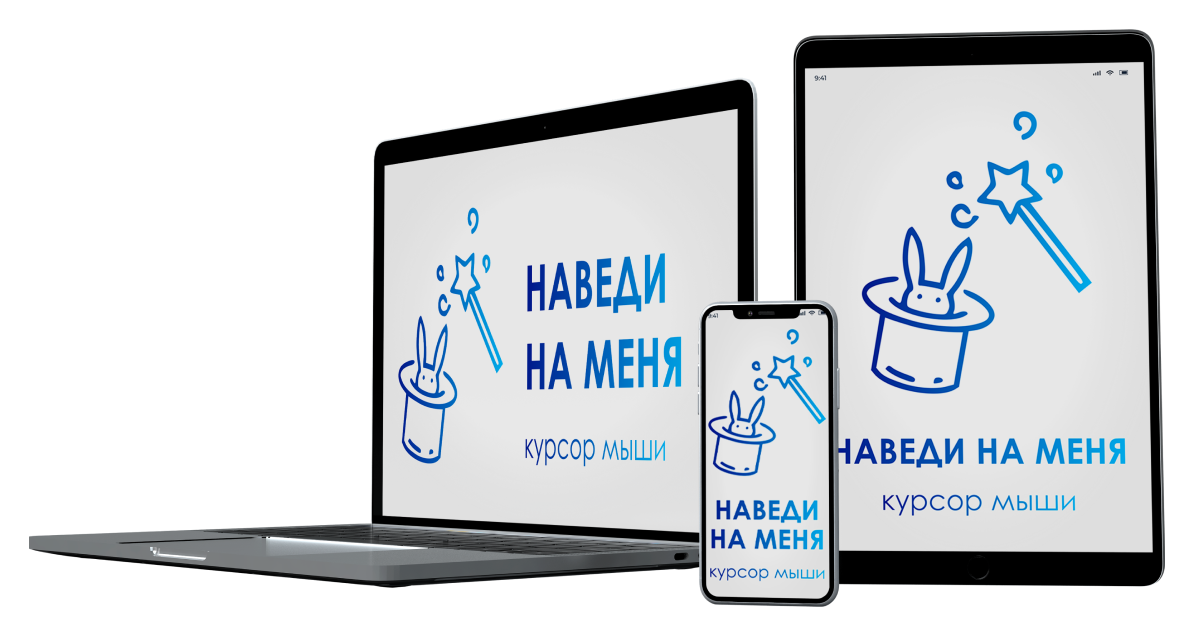
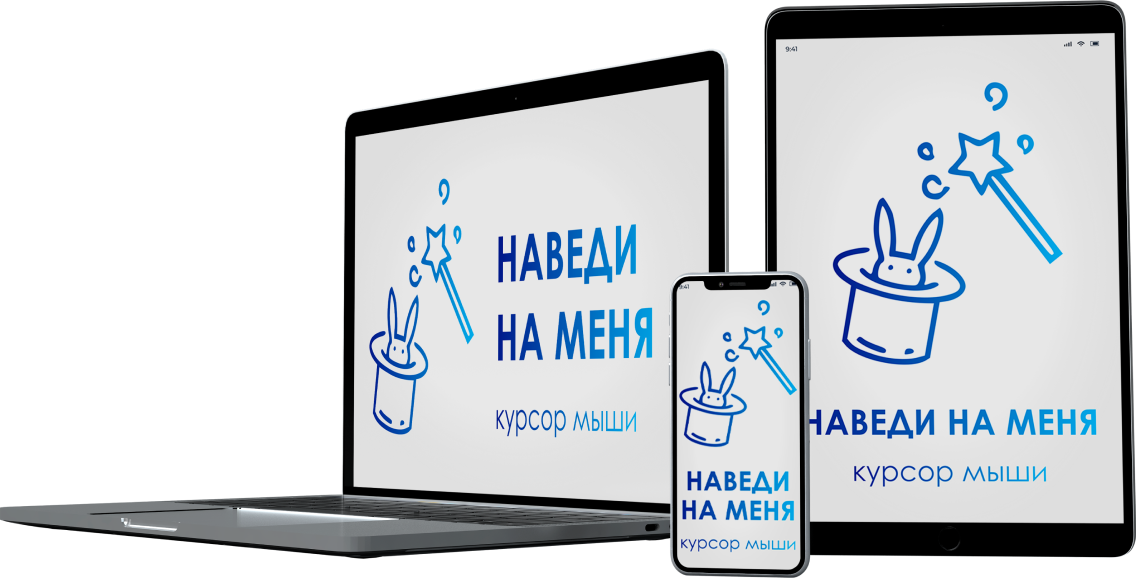
Add media for titles

Changed region(s): [[0.0, 0.0, 1.0, 1.0], [0.4313, 0.6851, 0.5546, 0.7474]]

diff --git a/scss/blocks/_page.scss b/scss/blocks/_page.scss
@@ -26,6 +26,36 @@
     padding: 0;
     margin: 0;
     margin-bottom: 80px;
+
+    @media (max-width:$vp-desktopMedium) {
+        font-size: 70px;
+        line-height: 86px;    
+    }
+
+    @media (max-width:$vp-desktopSmall) {
+        font-size: 60px;
+        line-height: 74px;    
+    }
+
+    @media (max-width:$vp-tabletLarge) {
+        font-size: 50px;
+        line-height: 61px;    
+    }
+
+    @media (max-width:$vp-tabletSmall) {
+        font-size: 40px;
+        line-height: 49px;    
+    }
+
+    @media (max-width:$vp-mobileLarge) {
+        font-size: 32px;
+        line-height: 39px;   
+    }
+
+    @media (max-width:$vp-mobileSmall) {
+        font-size: 28px;
+        line-height: 34px;   
+    }
 }
 
 .page-title--white {

diff --git a/css/style.css b/css/style.css
@@ -61,6 +61,42 @@
   margin: 0;
   margin-bottom: 80px;
 }
+@media (max-width: 1600px) {
+  .page-title {
+    font-size: 70px;
+    line-height: 86px;
+  }
+}
+@media (max-width: 1366px) {
+  .page-title {
+    font-size: 60px;
+    line-height: 74px;
+  }
+}
+@media (max-width: 1024px) {
+  .page-title {
+    font-size: 50px;
+    line-height: 61px;
+  }
+}
+@media (max-width: 768px) {
+  .page-title {
+    font-size: 40px;
+    line-height: 49px;
+  }
+}
+@media (max-width: 480px) {
+  .page-title {
+    font-size: 32px;
+    line-height: 39px;
+  }
+}
+@media (max-width: 320px) {
+  .page-title {
+    font-size: 28px;
+    line-height: 34px;
+  }
+}
 
 .page-title--white {
   color: white;

diff --git a/scss/_variables.scss b/scss/_variables.scss
@@ -10,11 +10,10 @@ $font-family: "Century Gothic";
 
 // Viewport
 
-$desktop: 1920px;
-$mobile-only: 767px;
-$tablet: 768px;
-$netbooks: 1024px;
-$header-break: 497px;
-
-// dot-size
-$dot-size: 15px;
+$vp-desktopLarge: 1920px;
+$vp-desktopMedium: 1600px;
+$vp-desktopSmall: 1366px;
+$vp-tabletLarge: 1024px;
+$vp-tabletSmall: 768px;
+$vp-mobileLarge: 480px;
+$vp-mobileSmall: 320px;
